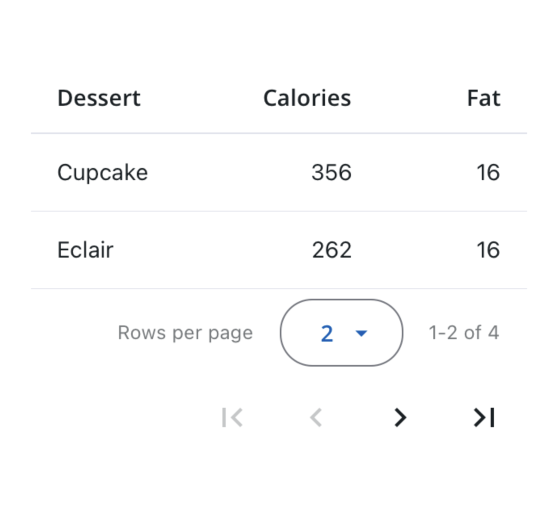
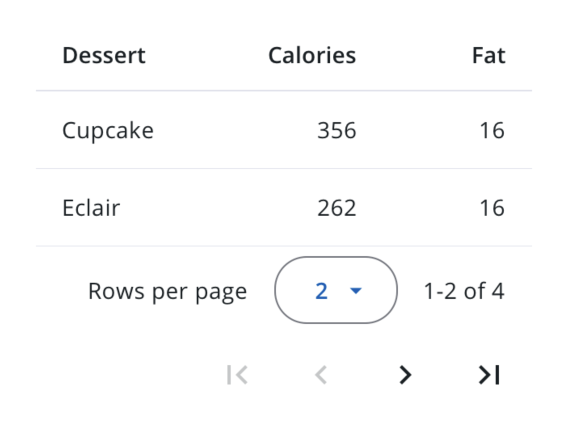
update documentation

diff --git a/RNPComponents/RNPComponents.md b/RNPComponents/RNPComponents.md
@@ -139,7 +139,6 @@ These styles override components will simplify this process so that the end user
     * Button color of the Elevated Button: surfaceContainerLow
     * Text color of the Error Elevated Button: error
     * Button color of the Error Elevated Button: surfaceContainerLow
-    * Button color of the Disabled Elevated Button: surfaceContainerLow
 
     <img width='300' alt="Button Elevated Mode" src="./Images/buttonElevated.png"><br/>
 
@@ -163,7 +162,6 @@ These styles override components will simplify this process so that the end user
     <Button
         mode="elevated"
         disabled
-        buttonColor={theme.colors.surfaceContainerLow}
     >
         Label
     </Button>
@@ -201,6 +199,12 @@ These styles override components will simplify this process so that the end user
     Recommended style overrides:
     * Text color of Table Title: onSurface
     * Font size of Table Title: theme.fonts.labelLarge
+    * Font size of Table Cell: theme.fonts.bodyMedium
+    * Font for pagination Label needs to passed inside Text component: ```
+    <Text style={{ ...theme.fonts.bodyMedium }}></Text>```
+    * Font for pagination selectPageDropdownLabel needs to passed inside Text component: ```
+    <Text style={{ ...theme.fonts.bodyMedium }}></Text>```
+    
 
     <img width='300' alt="Data Table" src="./Images/dataTable.png"><br/>
 
@@ -231,21 +235,29 @@ These styles override components will simplify this process so that the end user
 
         {items.slice(from, to).map((item) => (
             <DataTable.Row key={item.key}>
-                <DataTable.Cell>{item.name}</DataTable.Cell>
-                <DataTable.Cell numeric>{item.calories}</DataTable.Cell>
-                <DataTable.Cell numeric>{item.fat}</DataTable.Cell>
+                <DataTable.Cell textStyle={{ ...theme.fonts.bodyMedium }} >{item.name}</DataTable.Cell>
+                <DataTable.Cell textStyle={{ ...theme.fonts.bodyMedium }} >{item.calories}</DataTable.Cell>
+                <DataTable.Cell textStyle={{ ...theme.fonts.bodyMedium }} numeric>{item.fat}</DataTable.Cell>
             </DataTable.Row>
         ))}
 
         <DataTable.Pagination
             page={page}
             numberOfPages={Math.ceil(items.length / itemsPerPage)}
-            label={`${from + 1}-${to} of ${items.length}`}
+            label={
+                <Text style={{ ...theme.fonts.bodyMedium }}>
+                    {`${from + 1}-${to} of ${items.length}`}
+                </Text>
+            }
             numberOfItemsPerPageList={numberOfItemsPerPageList}
             numberOfItemsPerPage={itemsPerPage}
             onItemsPerPageChange={onItemsPerPageChange}
             showFastPaginationControls
-            selectPageDropdownLabel={'Rows per page'}
+            selectPageDropdownLabel={
+                <Text style={{ ...theme.fonts.bodyMedium }}>
+                Rows per page
+                </Text>
+            }
         />
     </DataTable>
     ```
@@ -375,11 +387,8 @@ These styles override components will simplify this process so that the end user
   - #### Outlined Mode
 
     Recommended style overrides:
-    - Underline color of Outlined Text Input: onSurfaceVariant
     - BackgroundColor of Outlined Text Input: transparent
-    - Underline color of Disabled Outlined Text Input: onSurfaceVariant
     - BackgroundColor of Disabled Outlined Text Input: transparent
-    - Underline color of Error Outlined Text Input: onSurfaceVariant
     - BackgroundColor of Error Outlined Text Input: transparent
     - Horizontal Margin for Helper Text: 8,
     - Horizontal Padding for Helper Text: 16,
@@ -394,7 +403,6 @@ These styles override components will simplify this process so that the end user
         label="TextInput"
         mode="outlined"
         value={normalFilledText}
-        underlineColor={theme.colors.onSurfaceVariant}
         onChangeText={(value) => setNormalFilledText(value)}
         style={{
             margin: 8,
@@ -406,7 +414,6 @@ These styles override components will simplify this process so that the end user
         label="TextInput"
         mode="outlined"
         value={disabledFilledText}
-        underlineColor={theme.colors.onSurfaceVariant}
         onChangeText={(value) => setDisabledFilledText(value)}
         disabled
         style={{
@@ -419,7 +426,6 @@ These styles override components will simplify this process so that the end user
         label="TextInput"
         mode="outlined"
         value={errorFilledText}
-        underlineColor={theme.colors.onSurfaceVariant}
         onChangeText={(value) => {
             setErrorFilledText(value);
             setHasError(value.length > 4);
